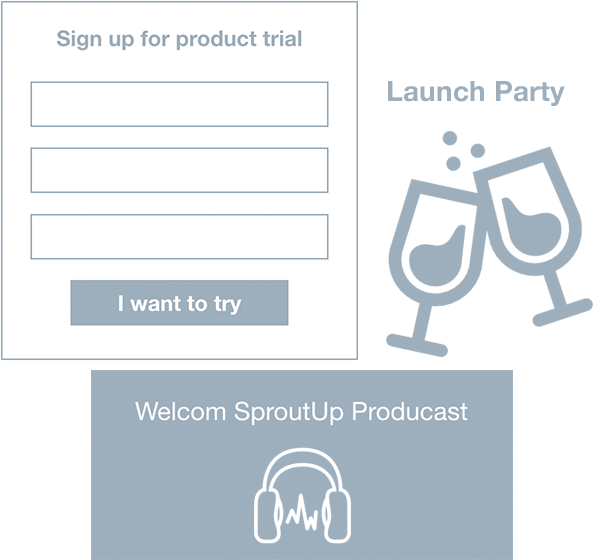
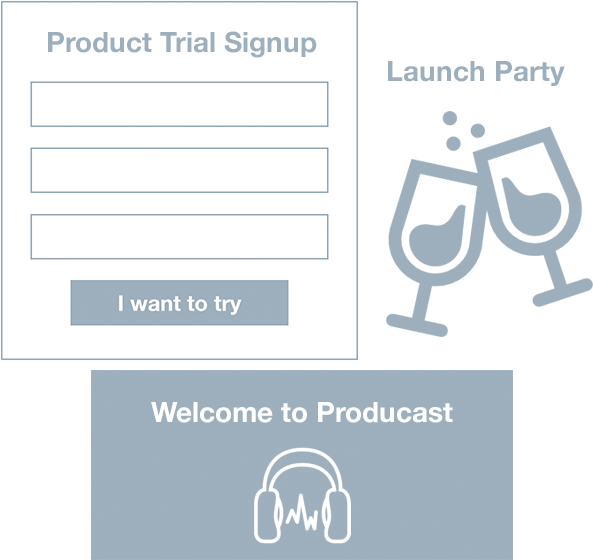
Content update for landing page and community page

Changed region(s): [[0.6374, 0.0911, 1.0, 0.6375], [0.2125, 0.6982, 0.7892, 0.7589], [0.0607, 0.0304, 0.5464, 0.1214]]

diff --git a/app/views/home.scala.html b/app/views/home.scala.html
@@ -1,31 +1,30 @@
 @()
 
     <div class="marketing-container">
-        <div class="container">
-            <div class="row text-center">
+            <div class="row">
                 <div class="marketing-header">
-                    <h1>A community with passion for emerging products</h1>
+                    <h1>Smart way for creators to openly collaborate with early adopters</h1>
                 </div>
-                <div class="row marketing-blurb">
-                    <div class="col-lg-3 col-md-3 col-sm-6">
+                <div class="marketing-blurb">
+                    <div class="col-md-3 col-sm-6">
                         <img class="img-circle img-responsive img-center marketing-img" src="@routes.Assets.at("images/index/discover.png")" alt="">
-                        <h2 class="marketing-title">Discover cool products</h2>
-                        <p class="marketing-content">We partner with the most creative folks and display the emerging products they are making. Here you will find the amazing things.</p>
+                        <h2 class="marketing-title">Rad things</h2>
+                        <p class="marketing-content">Discover new gadgets, widgets and product innovations.</p>
                     </div>
-                    <div class="col-lg-3 col-md-3 col-sm-6">
+                    <div class="col-md-3 col-sm-6">
                         <img class="img-circle img-responsive img-center marketing-img" src="@routes.Assets.at("images/index/share.png")" alt="">
-                        <h2 class="marketing-title">Sharing is catalyst</h2>
-                        <p class="marketing-content">Share feedback, product photos and videos with creators and other users. Authentic experience tells a lot more about a product.</p>
+                        <h2 class="marketing-title">Co-create</h2>
+                        <p class="marketing-content">Share your best ideas on how to take emerging products to the next level.</p>
                     </div>
-                    <div class="col-lg-3 col-md-3 col-sm-6">
+                    <div class="col-md-3 col-sm-6">
                         <img class="img-circle img-responsive img-center marketing-img" src="@routes.Assets.at("images/index/touch.png")" alt="">
-                        <h2 class="marketing-title">Touching is believing</h2>
-                        <p class="marketing-content">No experience is better than first-hand personal experience. We facilitate tryout for enthusiasts to touch products by yourself.</p>
+                        <h2 class="marketing-title">Try it out</h2>
+                        <p class="marketing-content">Satisfy your curiosity and elevate your tech savvy status.</p>
                     </div>
-                    <div class="col-lg-3 col-md-3 col-sm-6">
+                    <div class="col-md-3 col-sm-6">
                         <img class="img-circle img-responsive img-center marketing-img" src="@routes.Assets.at("images/index/community.png")" alt="">
-                        <h2 class="marketing-title">We are community</h2>
-                        <p class="marketing-content">Become a part of the community of creators, enthusiasts and product lovers, where we share a passion about innovativeness.</p>
+                        <h2 class="marketing-title">Team up</h2>
+                        <p class="marketing-content">Become part of a community of creators, enthusiasts and product lovers.</p>
                     </div>
                 </div>
             </div>
@@ -34,8 +33,8 @@
 
     <!-- Featured product list -->
     <div class="row product-list-container" up-product-list>
-        <h1 class="text-center product-list-header">Check out featured products</h1>
-        <h1 class="text-center product-list-header-2">We are expanding the collaboration with product creators. Stay tuned for more exciting stuff, beta coming in early 2015.</h1>
+        <h1 class="text-center product-list-header">Our favorites</h1>
+        <h1 class="text-center product-list-header-2">We are still in beta – adding new products every day.</h1>
 
         <div ng-repeat="product in products | filter: {isFeatured:true}">
             <up-product-item product="product"></up-product-item>
@@ -45,7 +44,7 @@
     <hr>
 
     <div class="row product-list-container" up-product-list>
-        <h1 class="text-center product-list-header">Other awesome products on SproutUp</h1>
+        <h1 class="text-center product-list-header">More rad products</h1>
         <div class="col-sm-12 product-list--search-area">
             <input ng-model="query" class="form-control product-list--search-input" placeholder="Search products">
             <span class="fa fa-search"></span>

diff --git a/app/views/community.scala.html b/app/views/community.scala.html
@@ -17,36 +17,42 @@
             <div class="row community-block">
                 <div class="col-md-4 col-sm-6 community-blurb features">
                     <div class="community-blurb-content features">
+                        <img class="img-responsive" src="@routes.Assets.at("images/community/explore.png")">
                         <h1>Explore products</h1>
                         <p>Find cool new products that someone took the risk to actually develop. Suggest your favorite gadgets to help us develop a wicked product showcase.</p>
                     </div>
                 </div>
                 <div class="col-md-4 col-sm-6 community-blurb features">
                     <div class="community-blurb-content features">
+                        <img class="img-responsive" src="@routes.Assets.at("images/community/engage.png")">
                         <h1>Engage creators</h1>
                         <p>Post your experience and help improve the product. Creators love to hear your suggestions and answer questions.</p>
                     </div>
                 </div>
                 <div class="col-md-4 col-sm-6 community-blurb features">
                     <div class="community-blurb-content features">
+                        <img class="img-responsive" src="@routes.Assets.at("images/community/share.png")">
                         <h1>Tell others</h1>
                         <p>Use photos and videos to share how you use new products. Be personal.</p>
                     </div>
                 </div>
                 <div class="col-md-4 col-sm-6 community-blurb features">
                     <div class="community-blurb-content features">
+                        <img class="img-responsive" src="@routes.Assets.at("images/community/try.png")">
                         <h1>Try it</h1>
                         <p>Request a product trial, satisfy your curiosity and elevate your tech savvy status amongst all your friends.</p>
                     </div>
                 </div>
                 <div class="col-md-4 col-sm-6 community-blurb features">
                     <div class="community-blurb-content features">
+                        <img class="img-responsive" src="@routes.Assets.at("images/community/highfive.png")">
                         <h1>High-five</h1>
                         <p>Recognize community peers for their innovative contributions by giving “upvotes.” Nominate champions and follow friends who give helpful feedback.</p>
                     </div>
                 </div>
                 <div class="col-md-4 col-sm-6 community-blurb features">
                     <div class="community-blurb-content features">
+                        <img class="img-responsive" src="@routes.Assets.at("images/community/cocreate.png")">
                         <h1>Co-create</h1>
                         <p>Contribute ideas, post sketches, hack code snippet and share your many talents with creators.</p>
                     </div>

diff --git a/app/assets/stylesheets/index.less b/app/assets/stylesheets/index.less
@@ -18,20 +18,20 @@
 }
 
 .marketing-header > h1 {
-  margin-top: 40px;
+  text-align: center;
   padding-bottom: 30px;
-  padding-left: 2%;
-  padding-right: 2%;
-  font-size: 32pt;
+  max-width: 800px;
+  margin: 40px auto 10px;
+  padding-left: 10px;
+  padding-right: 10px;
+  font-size: 29pt;
   font-family: "lato",Helvetica,Arial,sans-serif;
   font-weight: 300;
   color: #fff;
 }
 
 .marketing-blurb {
-  text-align: center;
-  padding-left: 2%;
-  padding-right: 2%;
+  padding: 0 10px;
 }
 
 .marketing-img {
@@ -42,16 +42,17 @@
 }
 
 .marketing-title {
-  font-size: 14pt;
+  font-size: 15pt;
   font-family: "lato",Helvetica,Arial,sans-serif;
   font-weight: 400;
   color: #fff;
+  text-align: center;
 }
 
 .marketing-content {
-  padding-top: 5px;
+  text-align: center;
   padding-bottom: 30px;
-  font-size: 11pt;
+  font-size: 12pt;
   font-family: "lato",Helvetica,Arial,sans-serif;
   font-weight: 300;
   color: #fff;
@@ -61,8 +62,8 @@
   text-align: center;
   font-family: "lato", Helvetica, Arial, sans-serif;
   font-weight: 300;
-  font-size: 30pt;
-  color: #5f5f5f;
+  font-size: 32pt;
+  color: @main-text;
   margin-top: 20px;
   margin-bottom: 20px;
   padding-left: 10%;
@@ -73,8 +74,8 @@
   text-align: center;
   font-family: "lato", Helvetica, Arial, sans-serif;
   font-weight: 300;
-  font-size: 14pt;
-  color: #929292;
+  font-size: 15pt;
+  color: @main-text-2;
   margin-bottom: 30px;
   padding-left: 3%;
   padding-right: 3%;

diff --git a/app/assets/stylesheets/community.less b/app/assets/stylesheets/community.less
@@ -118,3 +118,9 @@
   font-weight: 300;
   font-size: 12pt;
 }
+
+.community-blurb-content.features img {
+  height: 120px;
+  width: auto;
+  margin: 0 auto 30px;
+}
